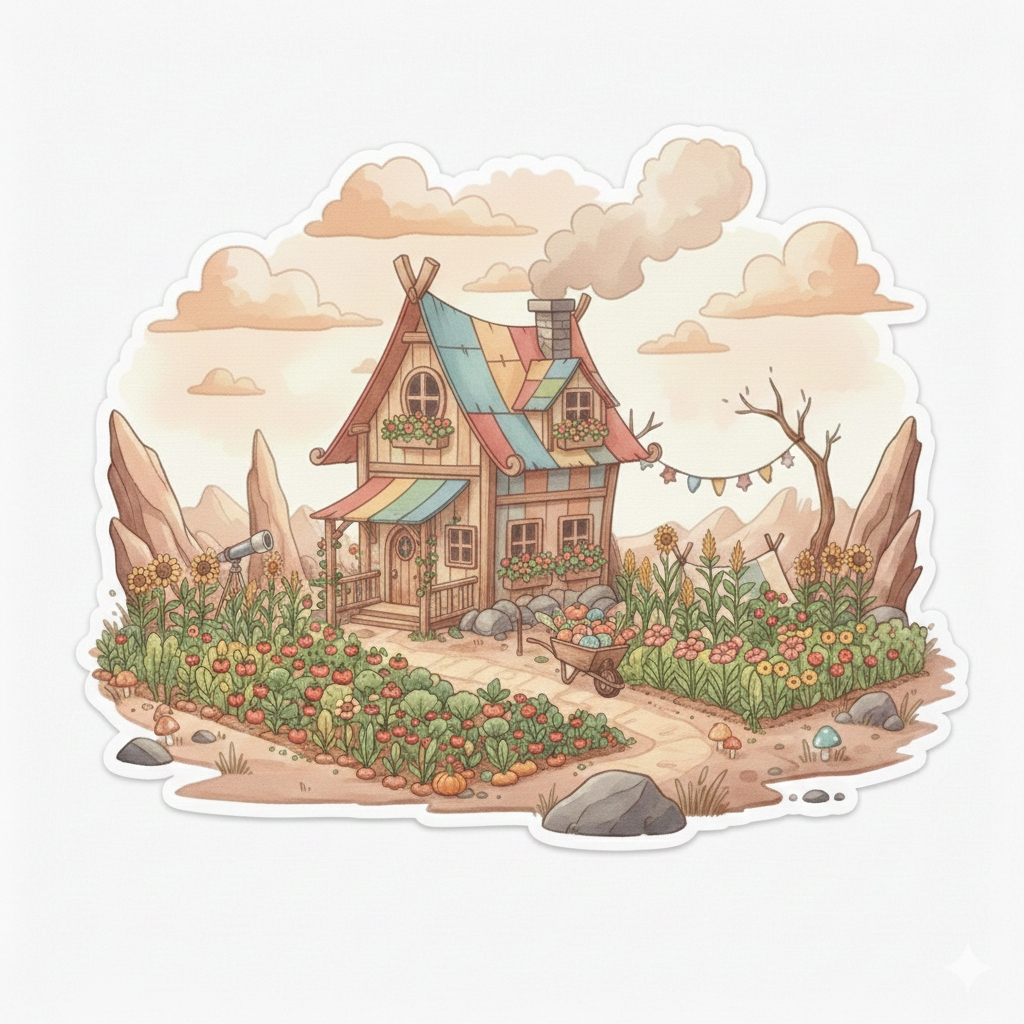
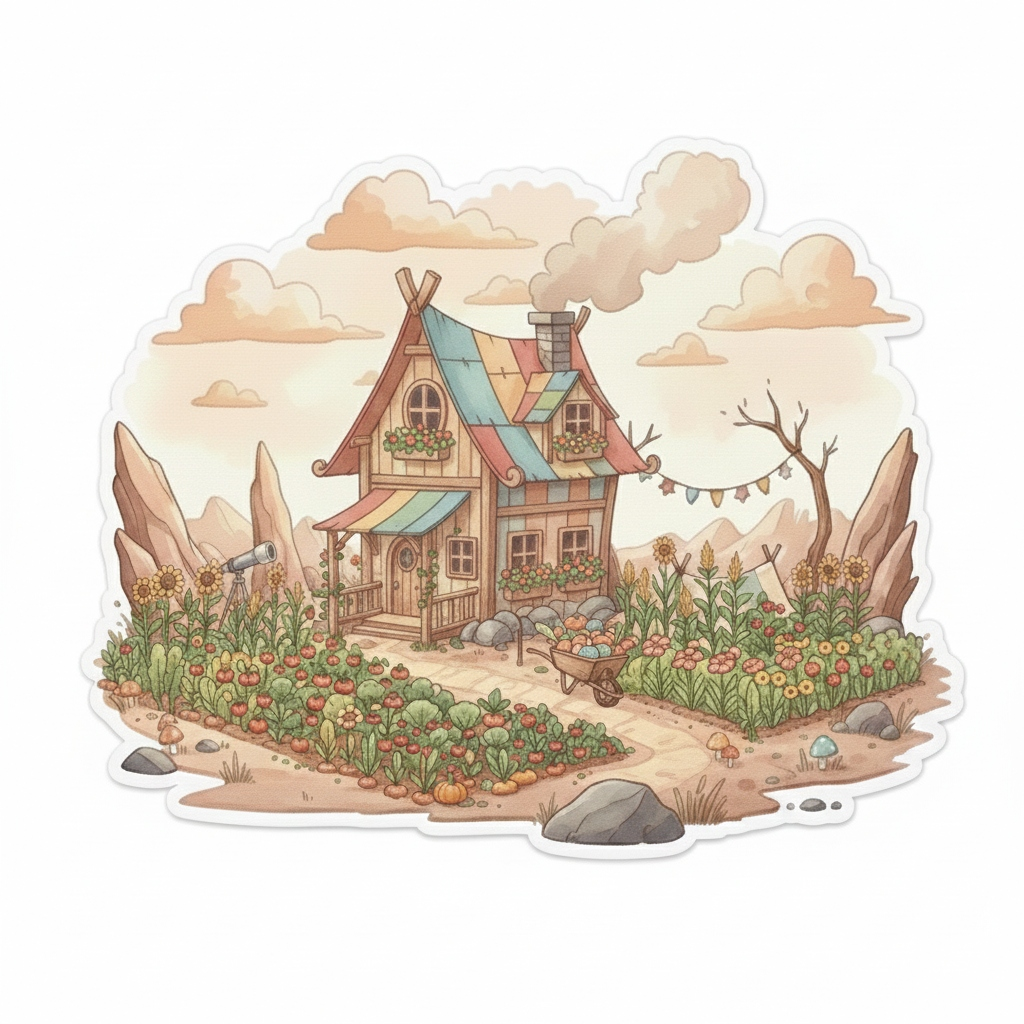
fix:画像の背景修正0111

diff --git a/src/pages/VillagePage.jsx b/src/pages/VillagePage.jsx
@@ -373,7 +373,8 @@ const VillagePage = () => {
                                                         filter: isLocked ? 'grayscale(100%) brightness(0.4)' : 'none',
                                                         transition: 'all 0.5s ease',
                                                         display: 'block',
-                                                        cursor: isLocked ? 'default' : 'pointer'
+                                                        cursor: isLocked ? 'default' : 'pointer',
+                                                        mixBlendMode: lvl.level >= 3 ? 'multiply' : 'normal'
                                                     }}
                                                 />
                                             ) : (
